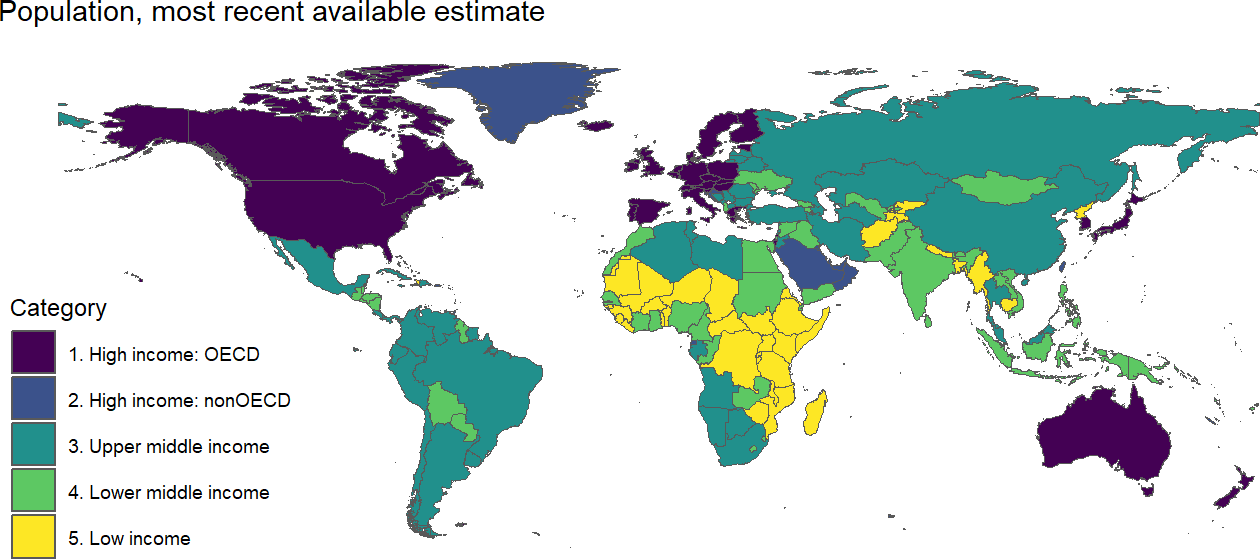
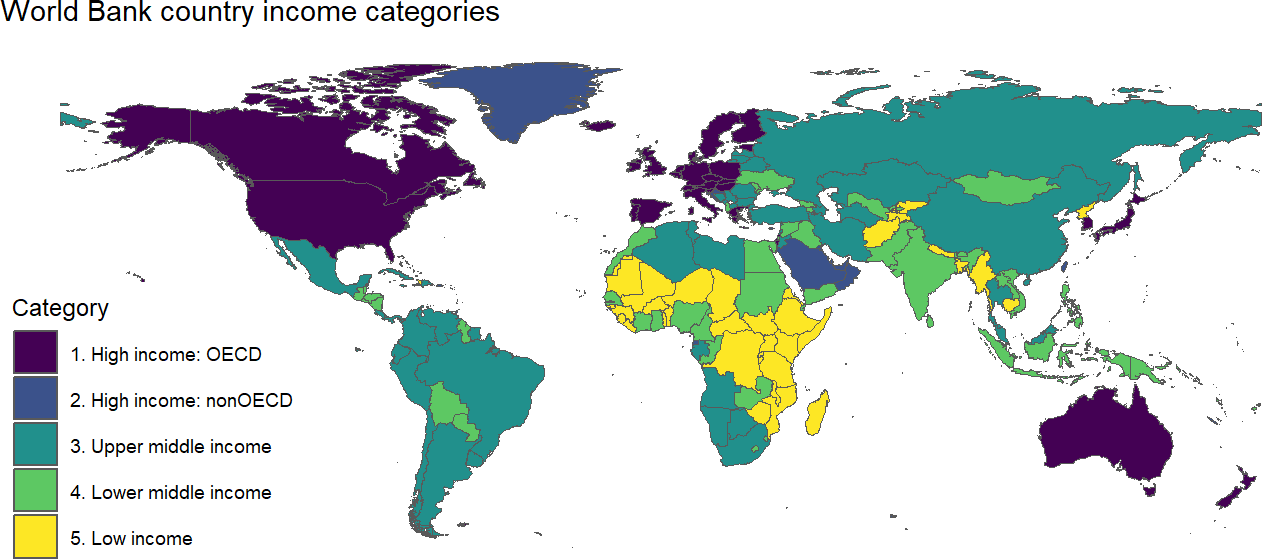
update module 3.1

diff --git a/_site/modules/module-3.1.html b/_site/modules/module-3.1.html
@@ -364,7 +364,8 @@ code span.wa { color: #60a0b0; font-weight: bold; font-style: italic; } /* Warni
   <li><a href="#make-a-map-with-geom_sf" id="toc-make-a-map-with-geom_sf" class="nav-link" data-scroll-target="#make-a-map-with-geom_sf">Make a map with geom_sf()</a></li>
   <li><a href="#beautify-your-map" id="toc-beautify-your-map" class="nav-link" data-scroll-target="#beautify-your-map">Beautify your map</a></li>
   <li><a href="#merging-rnaturalearth-with-other-data" id="toc-merging-rnaturalearth-with-other-data" class="nav-link" data-scroll-target="#merging-rnaturalearth-with-other-data">Merging rnaturalearth with other data</a></li>
-  <li><a href="#build-your-map-in-one-long-pipe-sequence" id="toc-build-your-map-in-one-long-pipe-sequence" class="nav-link" data-scroll-target="#build-your-map-in-one-long-pipe-sequence">Build your map in one long pipe sequence</a></li>
+  <li><a href="#turn-your-map-into-a-function" id="toc-turn-your-map-into-a-function" class="nav-link" data-scroll-target="#turn-your-map-into-a-function">Turn your map into a function</a></li>
+  <li><a href="#use-r-file-as-a-source-in-another-document" id="toc-use-r-file-as-a-source-in-another-document" class="nav-link" data-scroll-target="#use-r-file-as-a-source-in-another-document">Use R file as a “source” in another document</a></li>
   </ul>
 <div class="toc-actions"><div><i class="bi bi-github"></i></div><div class="action-links"><p><a href="https://github.com/eteitelbaum/dataviz-summer-2023/edit/main/modules/module-3.1.qmd" class="toc-action">Edit this page</a></p><p><a href="https://github.com/eteitelbaum/dataviz-summer-2023/issues/new" class="toc-action">Report an issue</a></p></div></div></nav>
     </div>
@@ -459,7 +460,7 @@ First 10 features:
 <span id="cb5-3"><a href="#cb5-3" aria-hidden="true" tabindex="-1"></a><span class="fu">ggplot</span>(<span class="at">data =</span> world_map_df) <span class="sc">+</span></span>
 <span id="cb5-4"><a href="#cb5-4" aria-hidden="true" tabindex="-1"></a>  <span class="fu">geom_sf</span>(<span class="fu">aes</span>(<span class="at">fill =</span> <span class="fu">as.factor</span>(income_grp))) <span class="sc">+</span> </span>
 <span id="cb5-5"><a href="#cb5-5" aria-hidden="true" tabindex="-1"></a>  <span class="fu">labs</span>(</span>
-<span id="cb5-6"><a href="#cb5-6" aria-hidden="true" tabindex="-1"></a>    <span class="at">title =</span> <span class="st">"Population, most recent available estimate"</span>,</span>
+<span id="cb5-6"><a href="#cb5-6" aria-hidden="true" tabindex="-1"></a>    <span class="at">title =</span> <span class="st">"World Bank country income categories"</span>,</span>
 <span id="cb5-7"><a href="#cb5-7" aria-hidden="true" tabindex="-1"></a>    <span class="at">fill =</span> <span class="st">"Category"</span></span>
 <span id="cb5-8"><a href="#cb5-8" aria-hidden="true" tabindex="-1"></a>    ) <span class="sc">+</span></span>
 <span id="cb5-9"><a href="#cb5-9" aria-hidden="true" tabindex="-1"></a>    <span class="fu">theme_map</span>() <span class="sc">+</span> </span>
@@ -499,48 +500,117 @@ $ geometry      &lt;MULTIPOLYGON [°]&gt; MULTIPOLYGON (((31.28789 -2..., MULTIP
 <span id="cb8-3"><a href="#cb8-3" aria-hidden="true" tabindex="-1"></a>  <span class="fu">labs</span>(</span>
 <span id="cb8-4"><a href="#cb8-4" aria-hidden="true" tabindex="-1"></a>    <span class="at">title =</span> <span class="st">"Oil rents as a % of GDP"</span>, <span class="co"># change title</span></span>
 <span id="cb8-5"><a href="#cb8-5" aria-hidden="true" tabindex="-1"></a>    <span class="at">subtitle =</span> <span class="st">"(Most recent available data)"</span>, <span class="co"># add subtitle</span></span>
-<span id="cb8-6"><a href="#cb8-6" aria-hidden="true" tabindex="-1"></a>    <span class="at">fill =</span> <span class="st">"Category"</span>, <span class="co"># change legend title</span></span>
+<span id="cb8-6"><a href="#cb8-6" aria-hidden="true" tabindex="-1"></a>    <span class="at">fill =</span> <span class="st">"Percent"</span>, <span class="co"># change legend title</span></span>
 <span id="cb8-7"><a href="#cb8-7" aria-hidden="true" tabindex="-1"></a>    <span class="at">caption =</span> <span class="st">"Source: World Bank Development Indicators"</span></span>
 <span id="cb8-8"><a href="#cb8-8" aria-hidden="true" tabindex="-1"></a>    ) <span class="sc">+</span></span>
 <span id="cb8-9"><a href="#cb8-9" aria-hidden="true" tabindex="-1"></a>  <span class="fu">theme_map</span>() <span class="sc">+</span></span>
-<span id="cb8-10"><a href="#cb8-10" aria-hidden="true" tabindex="-1"></a>  <span class="fu">theme</span>(<span class="at">legend.position =</span> <span class="st">"right"</span>) <span class="sc">+</span></span>
-<span id="cb8-11"><a href="#cb8-11" aria-hidden="true" tabindex="-1"></a>  <span class="fu">scale_fill_viridis_c</span>( <span class="co"># chg from discrete (_d) to continuous (_c)</span></span>
-<span id="cb8-12"><a href="#cb8-12" aria-hidden="true" tabindex="-1"></a>      <span class="at">option =</span> <span class="st">"magma"</span>, <span class="co">#  chg to magma theme</span></span>
-<span id="cb8-13"><a href="#cb8-13" aria-hidden="true" tabindex="-1"></a>      <span class="at">labels =</span> scales<span class="sc">::</span><span class="fu">label_percent</span>(<span class="at">scale =</span> <span class="dv">1</span>) <span class="co"># add percent label for legend</span></span>
-<span id="cb8-14"><a href="#cb8-14" aria-hidden="true" tabindex="-1"></a>      ) </span></code><button title="Copy to Clipboard" class="code-copy-button"><i class="bi"></i></button></pre></div>
+<span id="cb8-10"><a href="#cb8-10" aria-hidden="true" tabindex="-1"></a>  <span class="fu">theme</span>(</span>
+<span id="cb8-11"><a href="#cb8-11" aria-hidden="true" tabindex="-1"></a>    <span class="at">legend.position =</span> <span class="st">"right"</span>, </span>
+<span id="cb8-12"><a href="#cb8-12" aria-hidden="true" tabindex="-1"></a>    <span class="at">plot.title =</span> <span class="fu">element_text</span>(<span class="at">face =</span> <span class="st">"bold"</span>) <span class="co">#,</span></span>
+<span id="cb8-13"><a href="#cb8-13" aria-hidden="true" tabindex="-1"></a>    <span class="co">#legend.title = element_text(size = 8),</span></span>
+<span id="cb8-14"><a href="#cb8-14" aria-hidden="true" tabindex="-1"></a>    <span class="co">#legend.text = element_text(size = 6)</span></span>
+<span id="cb8-15"><a href="#cb8-15" aria-hidden="true" tabindex="-1"></a>    ) <span class="sc">+</span></span>
+<span id="cb8-16"><a href="#cb8-16" aria-hidden="true" tabindex="-1"></a>  <span class="fu">scale_fill_viridis_c</span>( <span class="co"># chg from discrete (_d) to continuous (_c)</span></span>
+<span id="cb8-17"><a href="#cb8-17" aria-hidden="true" tabindex="-1"></a>      <span class="at">option =</span> <span class="st">"magma"</span>, <span class="co">#  chg to magma theme</span></span>
+<span id="cb8-18"><a href="#cb8-18" aria-hidden="true" tabindex="-1"></a>      <span class="at">labels =</span> scales<span class="sc">::</span><span class="fu">label_percent</span>(<span class="at">scale =</span> <span class="dv">1</span>) <span class="co"># add % label for legend</span></span>
+<span id="cb8-19"><a href="#cb8-19" aria-hidden="true" tabindex="-1"></a>      ) </span></code><button title="Copy to Clipboard" class="code-copy-button"><i class="bi"></i></button></pre></div>
 <div class="cell-output-display">
 <p><img src="module-3.1_files/figure-html/unnamed-chunk-6-1.png" class="img-fluid" width="672"></p>
 </div>
 </div>
 </section>
-<section id="build-your-map-in-one-long-pipe-sequence" class="level2">
-<h2 class="anchored" data-anchor-id="build-your-map-in-one-long-pipe-sequence">Build your map in one long pipe sequence</h2>
+<section id="turn-your-map-into-a-function" class="level2">
+<h2 class="anchored" data-anchor-id="turn-your-map-into-a-function">Turn your map into a function</h2>
 <ul>
-<li>change indicator to illustrate ease of making map when code is finished, maybe build an exercise based on that</li>
+<li>save this code as an R. script</li>
 </ul>
 <div class="cell" data-crop="true">
-<div class="sourceCode cell-code" id="cb9"><pre class="sourceCode r code-with-copy"><code class="sourceCode r"><span id="cb9-1"><a href="#cb9-1" aria-hidden="true" tabindex="-1"></a><span class="fu">ne_countries</span>(<span class="at">scale =</span> <span class="st">"medium"</span>, <span class="at">returnclass =</span> <span class="st">"sf"</span>) <span class="sc">|&gt;</span> </span>
-<span id="cb9-2"><a href="#cb9-2" aria-hidden="true" tabindex="-1"></a>  <span class="fu">left_join</span>(</span>
-<span id="cb9-3"><a href="#cb9-3" aria-hidden="true" tabindex="-1"></a>    <span class="fu">wb_data</span>(<span class="fu">c</span>(<span class="at">oil_rents_gdp =</span> <span class="st">"NY.GDP.PETR.RT.ZS"</span>), <span class="at">mrnev =</span> <span class="dv">1</span>),</span>
-<span id="cb9-4"><a href="#cb9-4" aria-hidden="true" tabindex="-1"></a>    <span class="fu">join_by</span>(iso_a2 <span class="sc">==</span> iso2c)</span>
-<span id="cb9-5"><a href="#cb9-5" aria-hidden="true" tabindex="-1"></a>  ) <span class="sc">|&gt;</span> </span>
-<span id="cb9-6"><a href="#cb9-6" aria-hidden="true" tabindex="-1"></a>  <span class="fu">filter</span>(iso_a3 <span class="sc">!=</span> <span class="st">"ATA"</span>) <span class="sc">|&gt;</span>  <span class="co"># remove Antarctica</span></span>
-<span id="cb9-7"><a href="#cb9-7" aria-hidden="true" tabindex="-1"></a>  <span class="fu">ggplot</span>(<span class="fu">aes</span>(<span class="at">fill =</span> oil_rents_gdp)) <span class="sc">+</span></span>
-<span id="cb9-8"><a href="#cb9-8" aria-hidden="true" tabindex="-1"></a>  <span class="fu">geom_sf</span>() <span class="sc">+</span></span>
-<span id="cb9-9"><a href="#cb9-9" aria-hidden="true" tabindex="-1"></a>  <span class="fu">labs</span>(</span>
-<span id="cb9-10"><a href="#cb9-10" aria-hidden="true" tabindex="-1"></a>    <span class="at">title =</span> <span class="st">"Oil rents as a % of GDP"</span>, <span class="co"># change title</span></span>
-<span id="cb9-11"><a href="#cb9-11" aria-hidden="true" tabindex="-1"></a>    <span class="at">subtitle =</span> <span class="st">"(Most recent available data)"</span>, <span class="co"># add subtitle</span></span>
-<span id="cb9-12"><a href="#cb9-12" aria-hidden="true" tabindex="-1"></a>    <span class="at">fill =</span> <span class="st">"Category"</span>, <span class="co"># change legend title</span></span>
-<span id="cb9-13"><a href="#cb9-13" aria-hidden="true" tabindex="-1"></a>    <span class="at">caption =</span> <span class="st">"Source: World Bank Development Indicators"</span></span>
-<span id="cb9-14"><a href="#cb9-14" aria-hidden="true" tabindex="-1"></a>    ) <span class="sc">+</span></span>
-<span id="cb9-15"><a href="#cb9-15" aria-hidden="true" tabindex="-1"></a>  <span class="fu">theme_map</span>() <span class="sc">+</span></span>
-<span id="cb9-16"><a href="#cb9-16" aria-hidden="true" tabindex="-1"></a>  <span class="fu">theme</span>(<span class="at">legend.position=</span><span class="st">"right"</span>) <span class="sc">+</span></span>
-<span id="cb9-17"><a href="#cb9-17" aria-hidden="true" tabindex="-1"></a>  <span class="fu">scale_fill_viridis_c</span>( <span class="co"># chg from discrete (_d) to continuous (_c)</span></span>
-<span id="cb9-18"><a href="#cb9-18" aria-hidden="true" tabindex="-1"></a>    <span class="at">option =</span> <span class="st">"magma"</span>, <span class="co">#  chg to magma theme</span></span>
-<span id="cb9-19"><a href="#cb9-19" aria-hidden="true" tabindex="-1"></a>    <span class="at">labels =</span> scales<span class="sc">::</span><span class="fu">label_percent</span>(<span class="at">scale =</span> <span class="dv">1</span>) <span class="co"># add percent label for legend</span></span>
-<span id="cb9-20"><a href="#cb9-20" aria-hidden="true" tabindex="-1"></a>    )</span></code><button title="Copy to Clipboard" class="code-copy-button"><i class="bi"></i></button></pre></div>
+<div class="sourceCode cell-code" id="cb9"><pre class="sourceCode r code-with-copy"><code class="sourceCode r"><span id="cb9-1"><a href="#cb9-1" aria-hidden="true" tabindex="-1"></a><span class="fu">library</span>(rnaturalearth)</span>
+<span id="cb9-2"><a href="#cb9-2" aria-hidden="true" tabindex="-1"></a><span class="fu">library</span>(dplyr)</span>
+<span id="cb9-3"><a href="#cb9-3" aria-hidden="true" tabindex="-1"></a><span class="fu">library</span>(ggplot2)</span>
+<span id="cb9-4"><a href="#cb9-4" aria-hidden="true" tabindex="-1"></a><span class="fu">library</span>(ggthemes)</span>
+<span id="cb9-5"><a href="#cb9-5" aria-hidden="true" tabindex="-1"></a><span class="fu">library</span>(wbstats)</span>
+<span id="cb9-6"><a href="#cb9-6" aria-hidden="true" tabindex="-1"></a></span>
+<span id="cb9-7"><a href="#cb9-7" aria-hidden="true" tabindex="-1"></a>create_map <span class="ot">&lt;-</span> <span class="cf">function</span>(var_id, title, legend_title, theme, direction){</span>
+<span id="cb9-8"><a href="#cb9-8" aria-hidden="true" tabindex="-1"></a></span>
+<span id="cb9-9"><a href="#cb9-9" aria-hidden="true" tabindex="-1"></a><span class="fu">ne_countries</span>(<span class="at">scale =</span> <span class="st">"medium"</span>, <span class="at">returnclass =</span> <span class="st">"sf"</span>) <span class="sc">|&gt;</span> </span>
+<span id="cb9-10"><a href="#cb9-10" aria-hidden="true" tabindex="-1"></a>  <span class="fu">left_join</span>(</span>
+<span id="cb9-11"><a href="#cb9-11" aria-hidden="true" tabindex="-1"></a>    <span class="fu">wb_data</span>(var_id, <span class="at">mrnev =</span> <span class="dv">1</span>), <span class="co"># change variable id</span></span>
+<span id="cb9-12"><a href="#cb9-12" aria-hidden="true" tabindex="-1"></a>    <span class="fu">join_by</span>(iso_a2 <span class="sc">==</span> iso2c)</span>
+<span id="cb9-13"><a href="#cb9-13" aria-hidden="true" tabindex="-1"></a>  ) <span class="sc">|&gt;</span> </span>
+<span id="cb9-14"><a href="#cb9-14" aria-hidden="true" tabindex="-1"></a>  <span class="fu">filter</span>(iso_a3 <span class="sc">!=</span> <span class="st">"ATA"</span>) <span class="sc">|&gt;</span>  </span>
+<span id="cb9-15"><a href="#cb9-15" aria-hidden="true" tabindex="-1"></a>  <span class="fu">ggplot</span>() <span class="sc">+</span> </span>
+<span id="cb9-16"><a href="#cb9-16" aria-hidden="true" tabindex="-1"></a>  <span class="fu">geom_sf</span>(<span class="fu">aes</span>(<span class="at">fill =</span> <span class="fu">eval</span>(<span class="fu">parse</span>(<span class="at">text=</span>var_id)))) <span class="sc">+</span> <span class="co"># remove quotes</span></span>
+<span id="cb9-17"><a href="#cb9-17" aria-hidden="true" tabindex="-1"></a>  <span class="fu">labs</span>(</span>
+<span id="cb9-18"><a href="#cb9-18" aria-hidden="true" tabindex="-1"></a>    <span class="at">title =</span>  title, <span class="co"># change title</span></span>
+<span id="cb9-19"><a href="#cb9-19" aria-hidden="true" tabindex="-1"></a>    <span class="at">fill =</span> legend_title, <span class="co"># change legend title</span></span>
+<span id="cb9-20"><a href="#cb9-20" aria-hidden="true" tabindex="-1"></a>    <span class="at">caption =</span> <span class="st">"Source: World Bank Development Indicators"</span></span>
+<span id="cb9-21"><a href="#cb9-21" aria-hidden="true" tabindex="-1"></a>    ) <span class="sc">+</span></span>
+<span id="cb9-22"><a href="#cb9-22" aria-hidden="true" tabindex="-1"></a>  <span class="fu">theme_map</span>() <span class="sc">+</span></span>
+<span id="cb9-23"><a href="#cb9-23" aria-hidden="true" tabindex="-1"></a>  <span class="fu">theme</span>(</span>
+<span id="cb9-24"><a href="#cb9-24" aria-hidden="true" tabindex="-1"></a>    <span class="at">plot.title =</span> <span class="fu">element_text</span>(<span class="at">face =</span> <span class="st">"bold"</span>),</span>
+<span id="cb9-25"><a href="#cb9-25" aria-hidden="true" tabindex="-1"></a>  ) <span class="sc">+</span></span>
+<span id="cb9-26"><a href="#cb9-26" aria-hidden="true" tabindex="-1"></a>  <span class="fu">scale_fill_viridis_c</span>( </span>
+<span id="cb9-27"><a href="#cb9-27" aria-hidden="true" tabindex="-1"></a>    <span class="at">option =</span> <span class="st">"magma"</span>, <span class="co">#  chg theme</span></span>
+<span id="cb9-28"><a href="#cb9-28" aria-hidden="true" tabindex="-1"></a>    <span class="at">direction =</span> direction <span class="co"># change direction of scale</span></span>
+<span id="cb9-29"><a href="#cb9-29" aria-hidden="true" tabindex="-1"></a>    )</span>
+<span id="cb9-30"><a href="#cb9-30" aria-hidden="true" tabindex="-1"></a>}</span>
+<span id="cb9-31"><a href="#cb9-31" aria-hidden="true" tabindex="-1"></a></span>
+<span id="cb9-32"><a href="#cb9-32" aria-hidden="true" tabindex="-1"></a><span class="fu">create_map</span>(<span class="at">var_id =</span> <span class="st">"SL.TLF.CACT.FE.ZS"</span>, </span>
+<span id="cb9-33"><a href="#cb9-33" aria-hidden="true" tabindex="-1"></a>           <span class="at">title=</span> <span class="st">"Female Labor Force Participation"</span>, </span>
+<span id="cb9-34"><a href="#cb9-34" aria-hidden="true" tabindex="-1"></a>           <span class="at">legend_title =</span> <span class="st">"FLFP %"</span>, </span>
+<span id="cb9-35"><a href="#cb9-35" aria-hidden="true" tabindex="-1"></a>           <span class="at">theme =</span> <span class="st">"inferno"</span>, </span>
+<span id="cb9-36"><a href="#cb9-36" aria-hidden="true" tabindex="-1"></a>           <span class="at">direction =</span> <span class="sc">-</span><span class="dv">1</span>)</span></code><button title="Copy to Clipboard" class="code-copy-button"><i class="bi"></i></button></pre></div>
 <div class="cell-output-display">
 <p><img src="module-3.1_files/figure-html/unnamed-chunk-7-1.png" class="img-fluid" width="672"></p>
+</div>
+</div>
+</section>
+<section id="use-r-file-as-a-source-in-another-document" class="level2">
+<h2 class="anchored" data-anchor-id="use-r-file-as-a-source-in-another-document">Use R file as a “source” in another document</h2>
+<div class="cell">
+<div class="sourceCode cell-code" id="cb10"><pre class="sourceCode r code-with-copy"><code class="sourceCode r"><span id="cb10-1"><a href="#cb10-1" aria-hidden="true" tabindex="-1"></a><span class="fu">source</span>(<span class="st">"functions/wb-maps.R"</span>, <span class="at">local =</span> knitr<span class="sc">::</span><span class="fu">knit_global</span>())</span></code><button title="Copy to Clipboard" class="code-copy-button"><i class="bi"></i></button></pre></div>
+</div>
+<p>Now I write some text here and then I want to show map, so I call the <code>create_map()</code> function that we just made:</p>
+<div class="cell" data-crop="true">
+<div class="sourceCode cell-code" id="cb11"><pre class="sourceCode r code-with-copy"><code class="sourceCode r"><span id="cb11-1"><a href="#cb11-1" aria-hidden="true" tabindex="-1"></a><span class="fu">create_map</span>(<span class="at">var_id =</span> <span class="st">"SL.TLF.CACT.FE.ZS"</span>, </span>
+<span id="cb11-2"><a href="#cb11-2" aria-hidden="true" tabindex="-1"></a>           <span class="at">title=</span> <span class="st">"Female Labor Force Participation"</span>, </span>
+<span id="cb11-3"><a href="#cb11-3" aria-hidden="true" tabindex="-1"></a>           <span class="at">legend_title =</span> <span class="st">"FLFP %"</span>, </span>
+<span id="cb11-4"><a href="#cb11-4" aria-hidden="true" tabindex="-1"></a>           <span class="at">theme =</span> <span class="st">"inferno"</span>, </span>
+<span id="cb11-5"><a href="#cb11-5" aria-hidden="true" tabindex="-1"></a>           <span class="at">direction =</span> <span class="sc">-</span><span class="dv">1</span>)</span></code><button title="Copy to Clipboard" class="code-copy-button"><i class="bi"></i></button></pre></div>
+<div class="cell-output-display">
+<p><img src="module-3.1_files/figure-html/unnamed-chunk-9-1.png" class="img-fluid" width="672"></p>
+</div>
+</div>
+<p>But now I want to show a different indicator with a different theme, let’s say GDP per capita. Let’s search for it:</p>
+<div class="cell">
+<div class="sourceCode cell-code" id="cb12"><pre class="sourceCode r code-with-copy"><code class="sourceCode r"><span id="cb12-1"><a href="#cb12-1" aria-hidden="true" tabindex="-1"></a><span class="fu">wb_search</span>(<span class="st">"GDP per capita"</span>) </span></code><button title="Copy to Clipboard" class="code-copy-button"><i class="bi"></i></button></pre></div>
+<div class="cell-output cell-output-stdout">
+<pre><code># A tibble: 24 × 3
+   indicator_id       indicator                                   indicator_desc
+   &lt;chr&gt;              &lt;chr&gt;                                       &lt;chr&gt;         
+ 1 5.51.01.10.gdp     Per capita GDP growth                       GDP per capit…
+ 2 6.0.GDPpc_constant GDP per capita, PPP (constant 2011 interna… GDP per capit…
+ 3 NV.AGR.PCAP.KD.ZG  Real agricultural GDP per capita growth ra… The growth ra…
+ 4 NY.GDP.PCAP.CD     GDP per capita (current US$)                GDP per capit…
+ 5 NY.GDP.PCAP.CN     GDP per capita (current LCU)                GDP per capit…
+ 6 NY.GDP.PCAP.KD     GDP per capita (constant 2010 US$)          GDP per capit…
+ 7 NY.GDP.PCAP.KD.ZG  GDP per capita growth (annual %)            Annual percen…
+ 8 NY.GDP.PCAP.KN     GDP per capita (constant LCU)               GDP per capit…
+ 9 NY.GDP.PCAP.PP.CD  GDP per capita, PPP (current international… This indicato…
+10 NY.GDP.PCAP.PP.KD  GDP per capita, PPP (constant 2017 interna… GDP per capit…
+# ℹ 14 more rows</code></pre>
+</div>
+</div>
+<p>Now let’s map GDP in constant 2017 international dollars (“NY.GDP.PCAP.PP.KD”) with the mako theme:</p>
+<div class="cell" data-crop="true">
+<div class="sourceCode cell-code" id="cb14"><pre class="sourceCode r code-with-copy"><code class="sourceCode r"><span id="cb14-1"><a href="#cb14-1" aria-hidden="true" tabindex="-1"></a><span class="fu">create_map</span>(<span class="at">var_id =</span> <span class="st">"NY.GDP.PCAP.PP.KD"</span>, </span>
+<span id="cb14-2"><a href="#cb14-2" aria-hidden="true" tabindex="-1"></a>           <span class="at">title=</span> <span class="st">"GDP per capita (constant 2017 Int'l $)"</span>, </span>
+<span id="cb14-3"><a href="#cb14-3" aria-hidden="true" tabindex="-1"></a>           <span class="at">legend_title =</span> <span class="st">"Geary-Khamis $"</span>, </span>
+<span id="cb14-4"><a href="#cb14-4" aria-hidden="true" tabindex="-1"></a>           <span class="at">theme =</span> <span class="st">"mako"</span>, </span>
+<span id="cb14-5"><a href="#cb14-5" aria-hidden="true" tabindex="-1"></a>           <span class="at">direction =</span> <span class="sc">-</span><span class="dv">1</span>)</span></code><button title="Copy to Clipboard" class="code-copy-button"><i class="bi"></i></button></pre></div>
+<div class="cell-output-display">
+<p><img src="module-3.1_files/figure-html/unnamed-chunk-11-1.png" class="img-fluid" width="672"></p>
 </div>
 </div>
 
